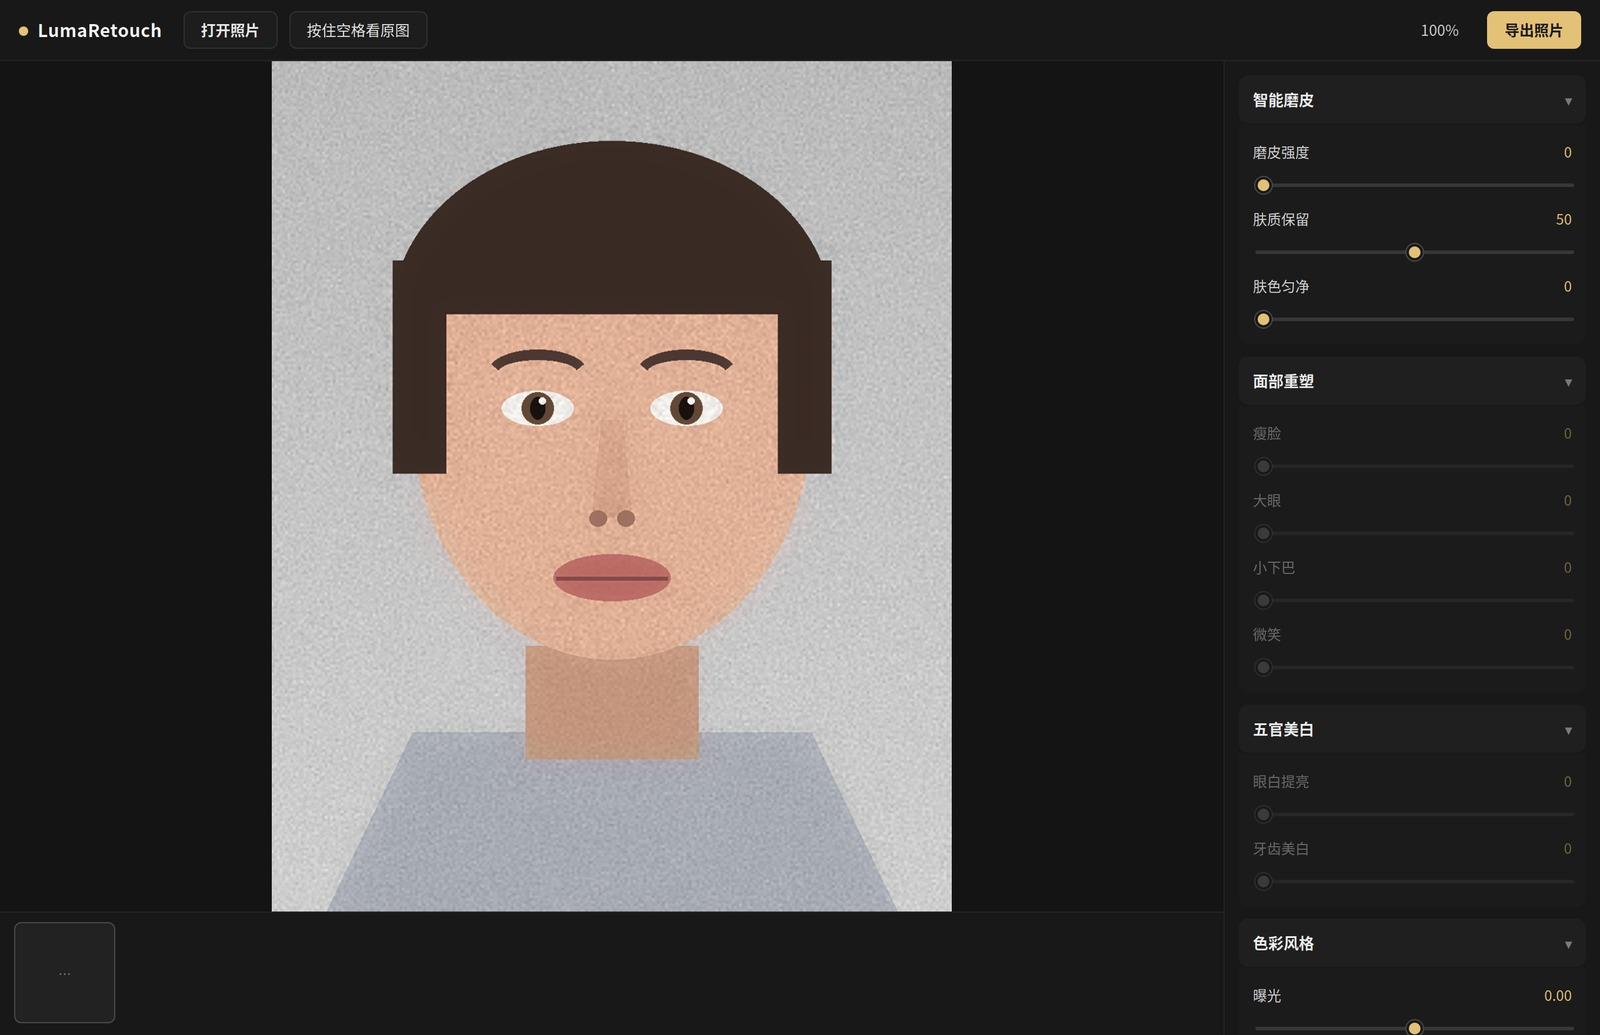
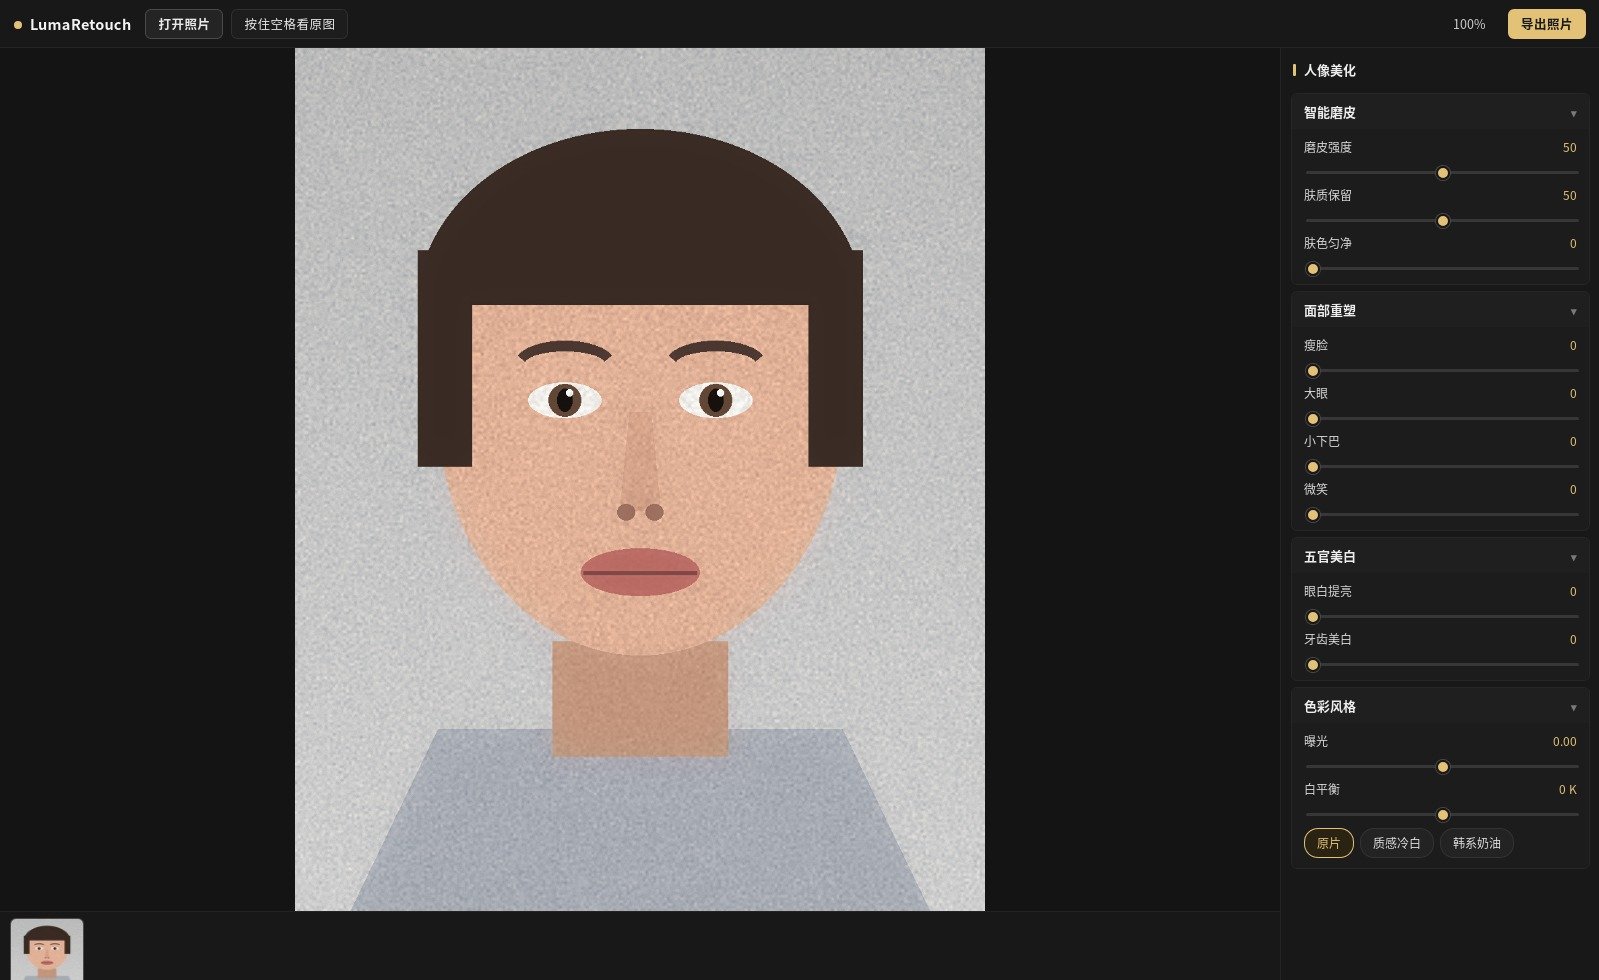
style(UI)：按参考图收紧四栏密度（980px 内全可见），补人像美化标题；重打 1.11.0 并重出装机截图

diff --git a/ui/src/styles.css b/ui/src/styles.css
@@ -154,19 +154,19 @@ pre.log { font-size:11px; color:var(--mut); max-height:180px; overflow:auto; bac
 html, body { background:#181818; }
 body { font:13px/1.5 "Noto Sans CJK SC","Source Han Sans SC",system-ui,sans-serif; }
 
-.app { grid-template-columns:1fr 320px; grid-template-rows:52px 1fr; }
-.topbar { grid-column:1 / span 2; grid-row:1; height:52px; padding:0 16px; gap:10px;
+.app { grid-template-columns:1fr 320px; grid-template-rows:48px 1fr; }
+.topbar { grid-column:1 / span 2; grid-row:1; height:48px; padding:0 14px; gap:8px;
   background:#181818; border-bottom:1px solid #242424; font-size:12.5px; }
 .side { grid-column:2; grid-row:2; background:#181818; border-left:1px solid #242424;
-  padding:12px 12px 20px; }
+  padding:10px 10px 14px; }
 .stage { grid-column:1; grid-row:2; background:#181818; }
 .stage canvas { background:#141414; }
 
-.brand { font-size:15px; font-weight:700; letter-spacing:.02em; margin-right:8px; color:#f4f4f4; }
+.brand { font-size:14.5px; font-weight:700; letter-spacing:.02em; margin-right:6px; color:#f4f4f4; }
 .brand::before { content:""; display:inline-block; width:8px; height:8px; border-radius:50%;
   background:var(--acc); margin-right:8px; vertical-align:1px; }
 .topbar .tb { background:#1d1d1d; border:1px solid #303030; color:#e9e9e9;
-  padding:6px 14px; border-radius:6px; font-size:12.5px; }
+  padding:5px 12px; border-radius:6px; font-size:12.5px; }
 .topbar .tb:hover { border-color:#4a4a4a; background:#242424; }
 .topbar .tb.on { border-color:var(--acc); color:var(--acc); background:#26200f; }
 .topbar .tb.primary { background:var(--acc); color:#1a1a1a; border-color:var(--acc); font-weight:700; }
@@ -179,34 +179,39 @@ body { font:13px/1.5 "Noto Sans CJK SC","Source Han Sans SC",system-ui,sans-seri
 .topbar .exportBtn { margin-left:6px; }
 
 /* 底片条：只有缩略图，没有工具条与文字 */
-.gallery { border-top:1px solid #242424; padding:8px 12px; max-height:112px; }
+.gallery { border-top:1px solid #242424; padding:6px 10px; max-height:100px; }
 .strip { display:flex; gap:8px; overflow-x:auto; padding:0 0 2px; }
 .strip::-webkit-scrollbar { height:6px; }
 .strip::-webkit-scrollbar-thumb { background:#333; border-radius:3px; }
 .strip .cell { padding:0; border:1px solid transparent; border-radius:6px; background:#222;
   display:block; }
-.strip .cell img { display:block; max-width:84px; max-height:84px; border-radius:6px; }
+.strip .cell img { display:block; max-width:72px; max-height:72px; border-radius:5px; }
 .strip .cell.on { border-color:#4a4a4a; }
 .strip .cell.sel { outline:2px solid var(--acc); outline-offset:-2px; }
 .strip .cell .ph { display:flex; align-items:center; justify-content:center;
-  width:84px; height:84px; font-size:11px; color:#777; }
+  width:72px; height:72px; font-size:11px; color:#777; }
 .strip .cell.trashed { opacity:.35; }
 
 /* 右侧四栏 */
-.retouch { display:flex; flex-direction:column; gap:10px; }
-.pg { border:none; background:transparent; margin:0; }
+.retouch { display:flex; flex-direction:column; gap:6px; }
+.rtTitle { display:flex; align-items:center; gap:8px; font-size:13px; font-weight:600;
+  color:#ededed; padding:2px 2px 8px; }
+.rtTitle::before { content:""; width:3px; height:12px; border-radius:1px;
+  background:var(--acc); }
+.pg { border:1px solid #262626; border-radius:6px; background:#1c1c1c; margin:0; }
 .pg > summary { list-style:none; cursor:pointer; font-size:13px; font-weight:600;
-  color:#ededed; padding:11px 12px; background:#1f1f1f; border-radius:8px;
+  color:#ededed; padding:8px 12px; background:#1f1f1f; border-radius:6px;
   display:flex; align-items:center; justify-content:space-between; }
+.pg[open] > summary { border-radius:6px 6px 0 0; }
 .pg > summary::-webkit-details-marker { display:none; }
 .pg > summary::after { content:"▾"; color:#7a7a7a; font-size:11px; }
 .pg:not([open]) > summary::after { content:"▸"; }
-.pgBody { padding:14px 12px 16px; background:#1b1b1b; border-radius:0 0 8px 8px;
+.pgBody { padding:8px 12px 10px; background:#1c1c1c; border-radius:0 0 6px 6px;
   margin-top:1px; }
-.pslider { margin-bottom:14px; }
+.pslider { margin-bottom:8px; }
 .pslider:last-child { margin-bottom:0; }
 .pslider .prow { display:flex; justify-content:space-between; align-items:baseline;
-  margin-bottom:6px; }
+  margin-bottom:3px; }
 .pslider .plabel { font-size:12px; color:#d8d8d8; }
 .pslider .pval { font-size:12px; color:var(--acc); font-variant-numeric:tabular-nums; }
 .pslider.off { opacity:.42; }
@@ -216,7 +221,7 @@ body { font:13px/1.5 "Noto Sans CJK SC","Source Han Sans SC",system-ui,sans-seri
   width:14px; height:14px; border-radius:50%; background:var(--acc);
   border:2px solid #181818; box-shadow:0 0 0 1px #4a4a4a; cursor:pointer; }
 .pslider input[type="range"]:disabled::-webkit-slider-thumb { background:#666; }
-.presets { display:flex; flex-wrap:wrap; gap:8px; margin-top:14px; }
+.presets { display:flex; flex-wrap:wrap; gap:6px; margin-top:8px; }
 .chip { background:#232323; border:1px solid #333; color:#ddd; border-radius:14px;
   padding:5px 12px; font-size:12px; }
 .chip:hover { border-color:#555; }

diff --git a/ui/src/components/RetouchPanel.tsx b/ui/src/components/RetouchPanel.tsx
@@ -121,6 +121,7 @@ export default function RetouchPanel(props: RetouchProps) {
 
   return (
     <div className="retouch">
+      <div className="rtTitle">人像美化</div>
       <Group title="智能磨皮">
         <Slider label="磨皮强度" value={Math.round((doc?.strength ?? 0) * 100)}
                 min={0} max={100} disabled={dim}
